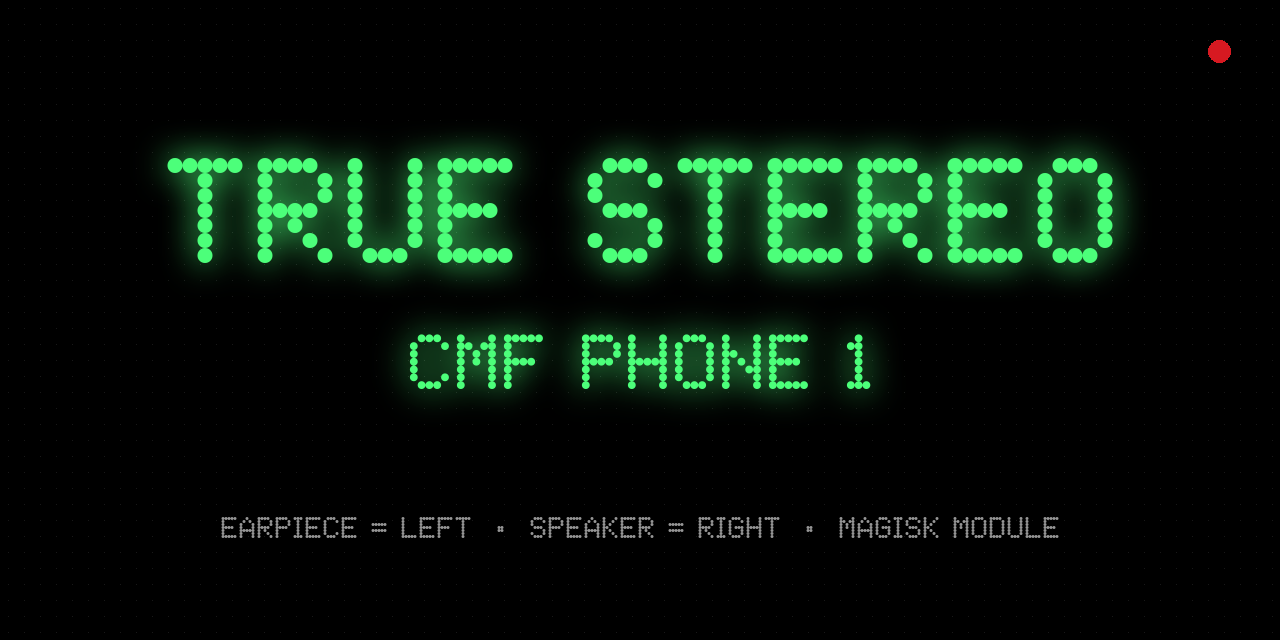
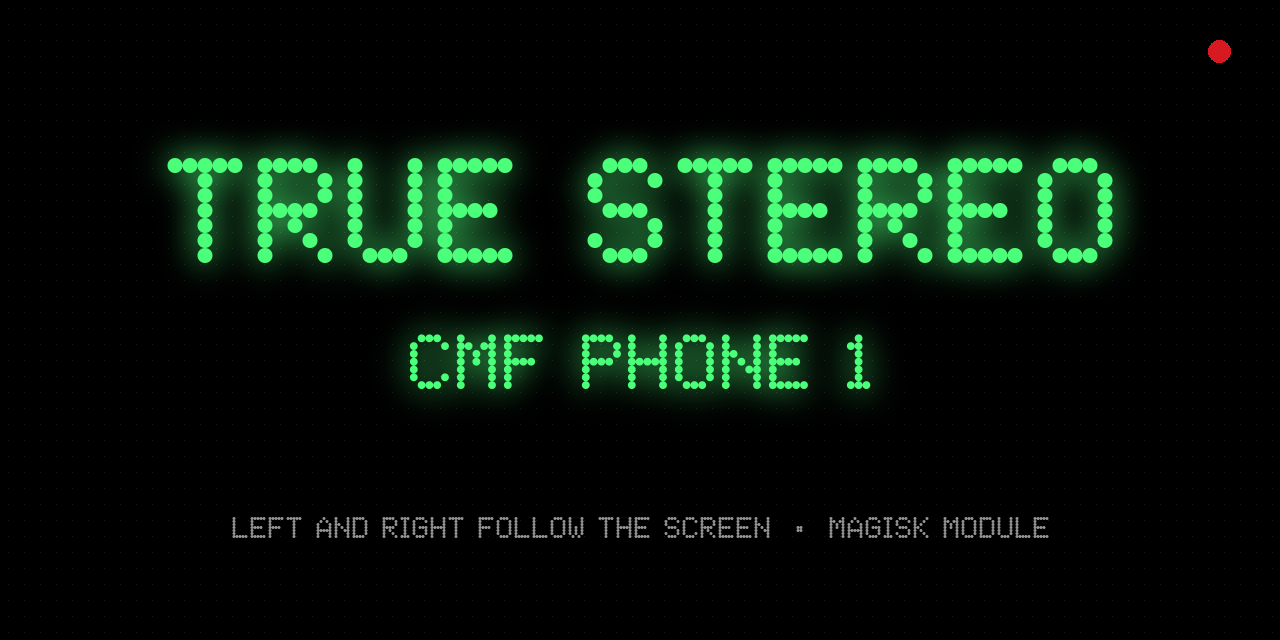
v1.0.8: texts say left and right follow the screen
The description, Magisk card, stereoctl, installer, README and banner said
'earpiece left, speaker right'; since v0.9.5 left and right follow how the
phone is held. Texts only; nothing changes in the sound.

Claude-Session: https://claude.ai/code/session_012LJu7snW4PtvMvVZ1E4JxQ

Changed region(s): [[0.1562, 0.7812, 0.8438, 0.8438]]

diff --git a/README.md b/README.md
@@ -1,9 +1,10 @@
-<p align="center"><img src="https://raw.githubusercontent.com/Dr-Essence/CMF-true-stereo/main/docs/banner.png" alt="CMF true stereo - earpiece left, speaker right" width="100%"></p>
+<p align="center"><img src="https://raw.githubusercontent.com/Dr-Essence/CMF-true-stereo/main/docs/banner.png" alt="CMF true stereo - left and right follow the screen" width="100%"></p>
 
 # CMF-true-stereo
 
-**Real left/right stereo on the CMF Phone 1.** The earpiece becomes the left
-speaker, the bottom speaker the right — no custom kernel, just root.
+**Real left/right stereo on the CMF Phone 1.** The earpiece and the bottom speaker
+become a stereo pair, and left and right follow the screen however you turn the phone —
+no custom kernel, just root.
 
 <p align="center">
   <a href="https://github.com/Dr-Essence/CMF-true-stereo/releases/latest"><b>Download the module</b></a> ·
@@ -13,7 +14,7 @@ speaker, the bottom speaker the right — no custom kernel, just root.
 
 |  | |
 |---|---|
-| 🔊 **Stereo** | Earpiece = left, speaker = right. Games, films and music finally have sides. |
+| 🔊 **Stereo** | The earpiece and the speaker play left and right, following how you hold the phone. Games, films and music finally have sides. |
 | 📢 **Mono** | Default. Both speakers play the full mix: louder and fuller than the bottom speaker alone. |
 | 📱 **App** | *CMF Stereo*, a clean Nothing-style app: on/off, Mono/Stereo, two 1–10 levels and the protection settings, a Quick Settings tile, and (with LSPosed) a Stereo speakers page inside Nothing's Settings. |
 | 🛟 **Safe** | Patches nothing it has not verified, never touches the vendor partition, and undoes itself after two failed boots. |
@@ -42,7 +43,7 @@ nothing.
 
 ## Status
 
-**Current release: v1.0.7.** Tested on one CMF Phone 1 (A015), EEA:
+**Current release: v1.0.8.** Tested on one CMF Phone 1 (A015), EEA:
 
 | | |
 |---|---|
@@ -106,6 +107,9 @@ music alike. The full history of findings, tests and fixes is in [CHANGELOG.md](
   apps never use it here (seen with the CMF L/R Test).
 
 **Fixed recently**
+- v1.0.8: the module's description, Magisk card, `stereoctl` and the installer said "earpiece
+  left, speaker right"; left and right follow the screen since v0.9.5, and the texts now say
+  so (the README and its banner too). Texts only.
 - v1.0.7: `stereoctl off` in stereo said to reboot after `stereoctl channels mono`; mono has
   switched live since v0.9.4. Message only.
 - v1.0.4: in stereo the speaker got up to about 10 dB more deep bass than Awinic lets through
@@ -131,8 +135,9 @@ It has two channel modes:
 - **mono** (default, stock audio): both drivers play the same full mix —
   louder, fuller and taller than the single bottom-firing speaker. This was
   the whole module once, back when it was called cmf-fake-stereo.
-- **stereo**: real left/right. The **earpiece plays the left channel and the
-  speaker the right**. It costs Awinic's speaker-protection processing on
+- **stereo**: real left/right. The **earpiece and the speaker play left and
+  right, following the screen** (in portrait and with the earpiece on your left,
+  the earpiece is left; turned the other way, it is right). It costs Awinic's speaker-protection processing on
   media; the module's own protection (a fixed amp attenuation, a deep bass
   guard and an earpiece limiter, measured against what Awinic does, with an
   optional speaker boost and earpiece leveller) stands in. See
@@ -146,7 +151,8 @@ Verified on **A015 / Tetris, MT6878, Nothing OS 4.1 (Tetris-B4.1-260615-1652-EEA
 
 ## What it does
 
-- **Real stereo** in stereo mode: earpiece = left channel, bottom speaker = right
+- **Real stereo** in stereo mode: the earpiece and the bottom speaker play left and right,
+  following the screen
 - **Mono** mode: both speakers play the full mix, with full speaker protection
 - Plays media through the earpiece alongside the speaker, automatically
 - Earpiece at the receiver amp's maximum, +8 dB (`Handset Volume 0`), the same value the HAL uses

diff --git a/docs/releases/v1.0.8.md b/docs/releases/v1.0.8.md
@@ -1,0 +1,13 @@
+### Left and right follow the screen, in every text
+The module's description, its card in Magisk, `stereoctl` and the installer no longer say "earpiece left, speaker right". Since v0.9.5 left and right follow how you hold the phone: with the earpiece on your left it plays the left channel, turned the other way it plays the right. The texts now say so.
+
+Nothing changes in the sound.
+
+Update from Magisk's **Update** button and reboot. Your settings are kept.
+
+### Install
+Flash in Magisk / KernelSU / APatch, reboot. CMF Phone 1 (A015) only; on other phones it installs and does nothing.
+
+> **Before you use stereo:** stereo turns off Awinic's speaker protection for media (calls keep it); the module's own protection stands in. Use Mono for loud listening. If the phone fails to boot twice with stereo on, the module switches itself back to Mono.
+
+Companion app: [CMF-true-stereo-manager](https://github.com/Dr-Essence/CMF-true-stereo-manager/releases/latest)
